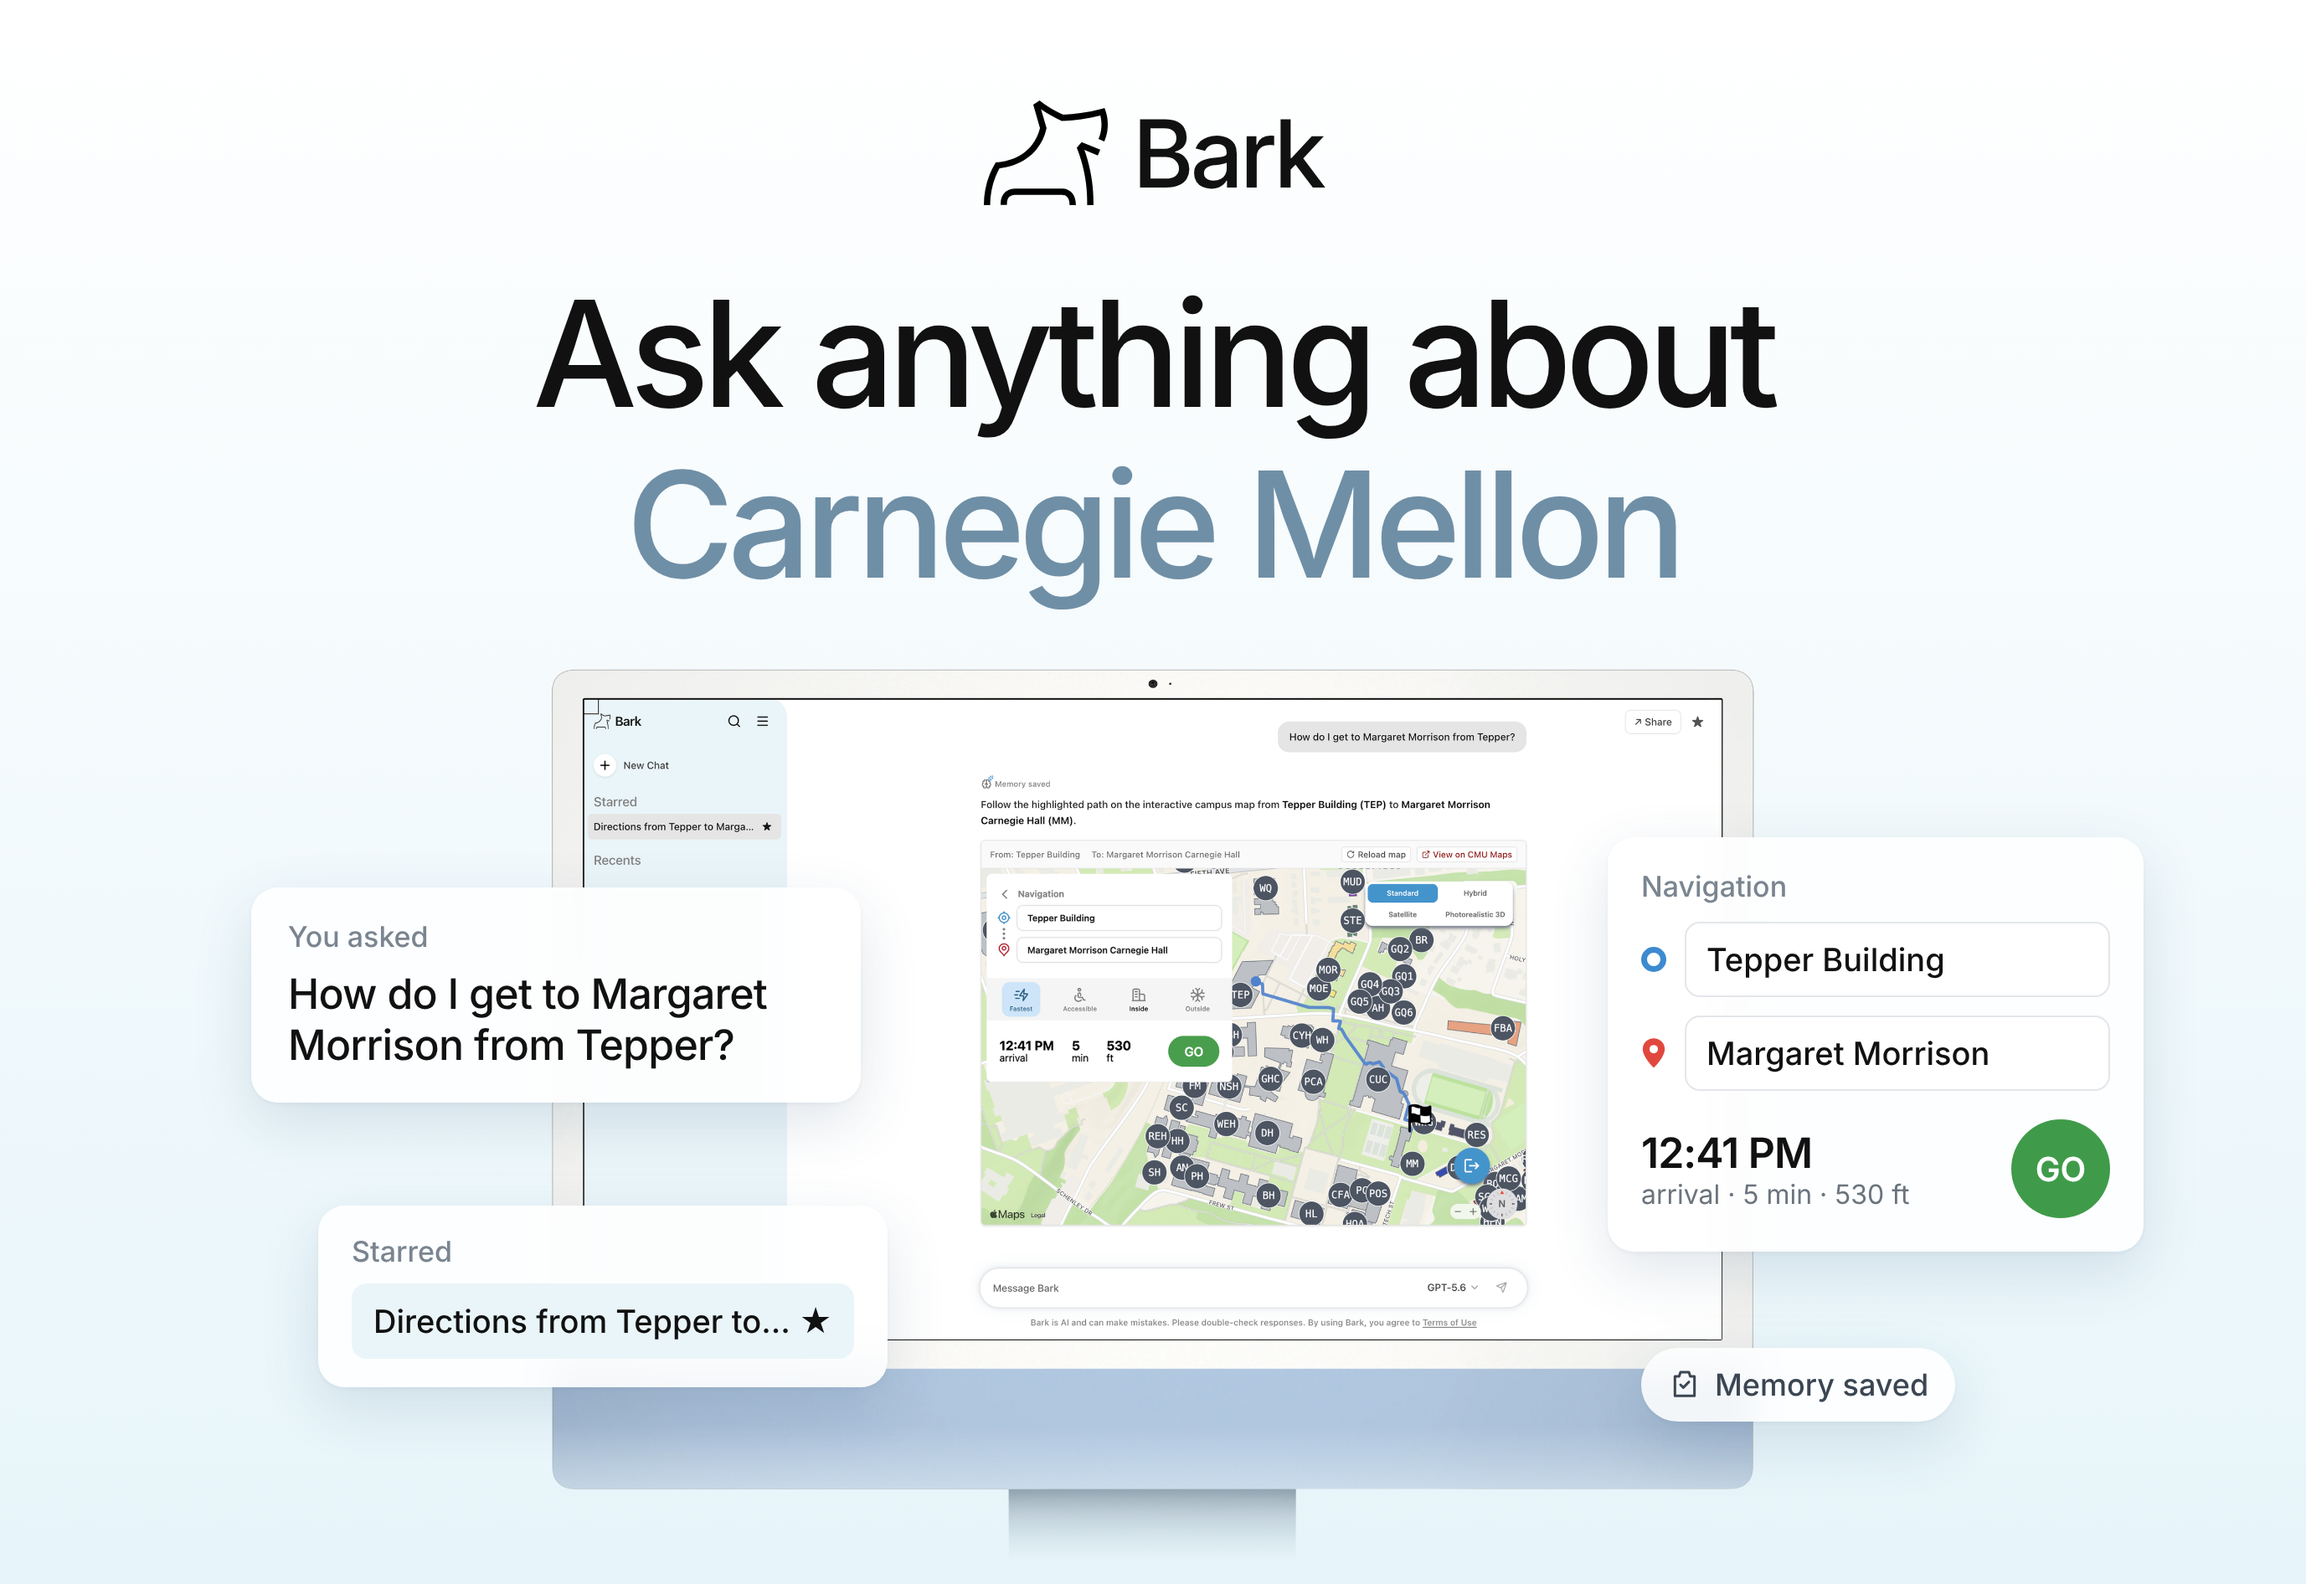
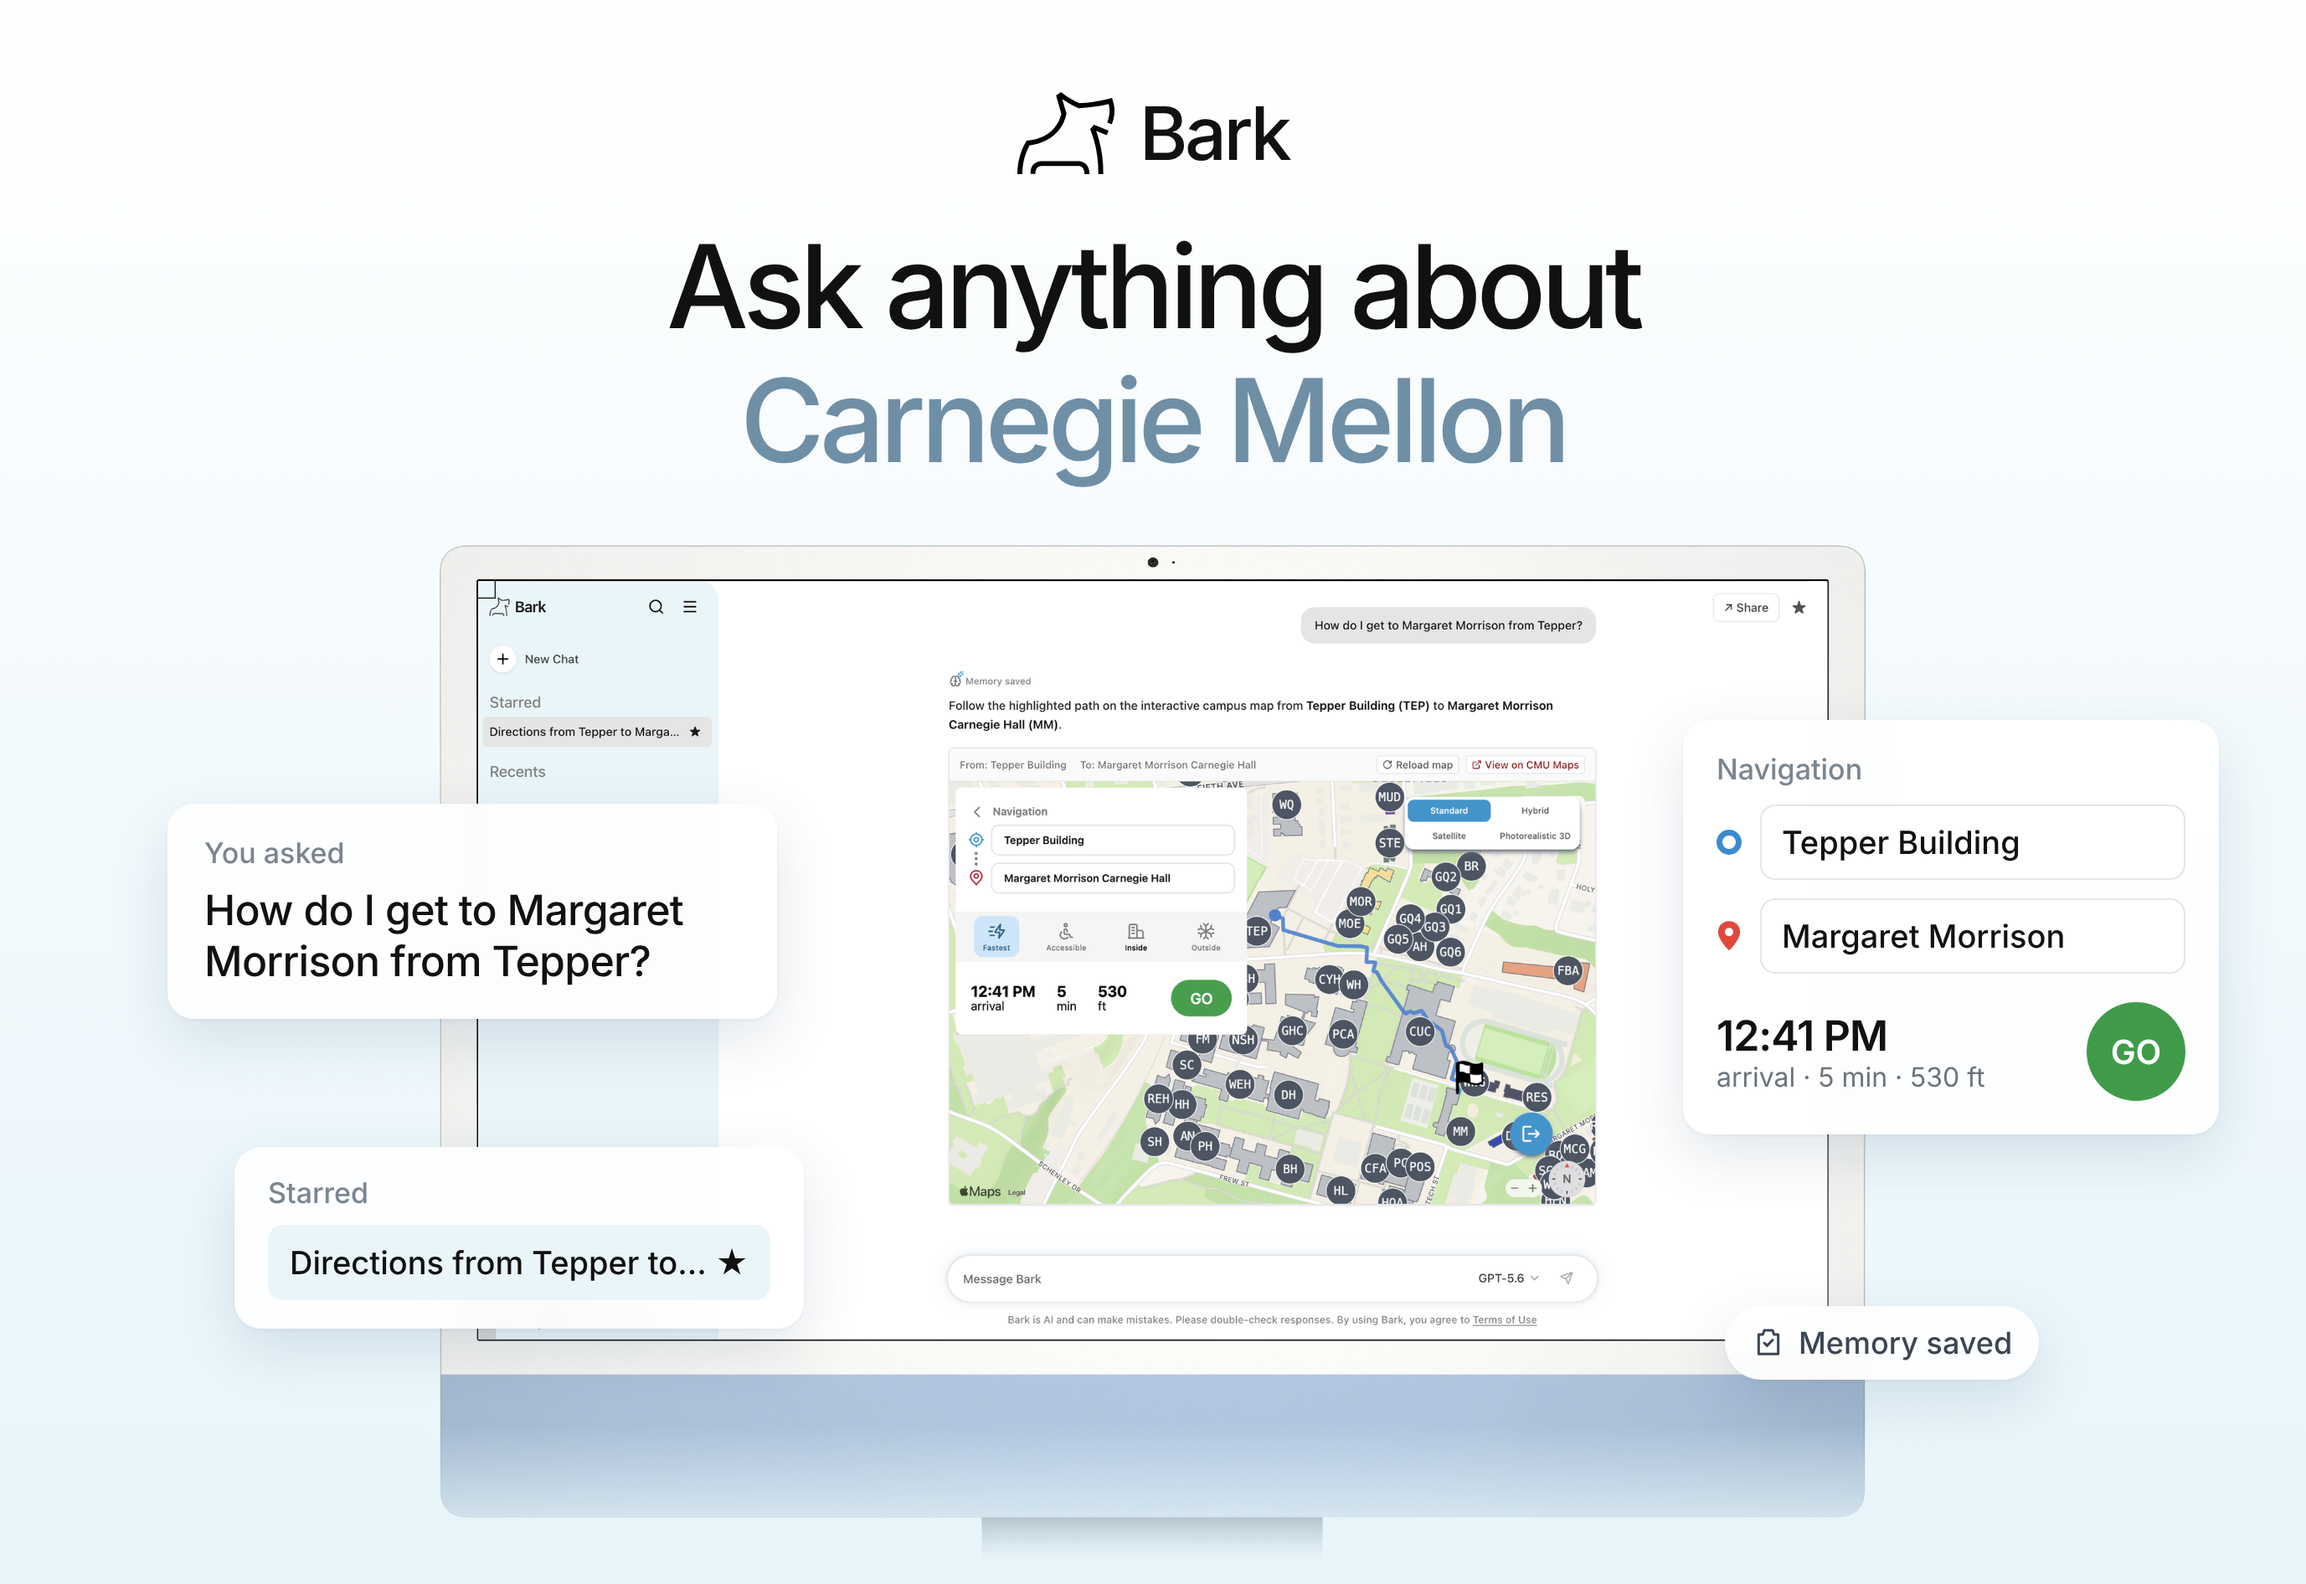
home: Bark cover with smaller headline and larger screen
Claude-Session: https://claude.ai/code/session_015vF3fknx26ijuPFq6BGXjN

diff --git a/index.html b/index.html
@@ -50,7 +50,7 @@
 
       <a class="project" href="cmugpt-site/index.html">
         <div class="project__media project__media--cmugpt">
-          <img src="cmugpt-site/images/cover.png?v=1" width="1377" height="946"
+          <img src="cmugpt-site/images/cover.png?v=2" width="1377" height="946"
             alt="Bark cover: 'Ask anything about Carnegie Mellon' above an iMac showing a Bark chat answer with an interactive campus map, with cards for the question, the walking route and a starred chat">
         </div>
         <h2 class="project__title">Bark</h2>
